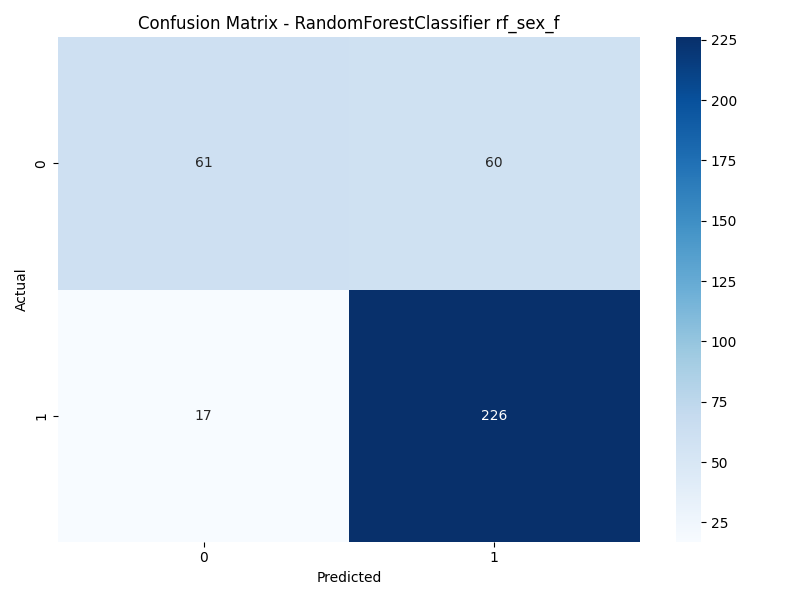
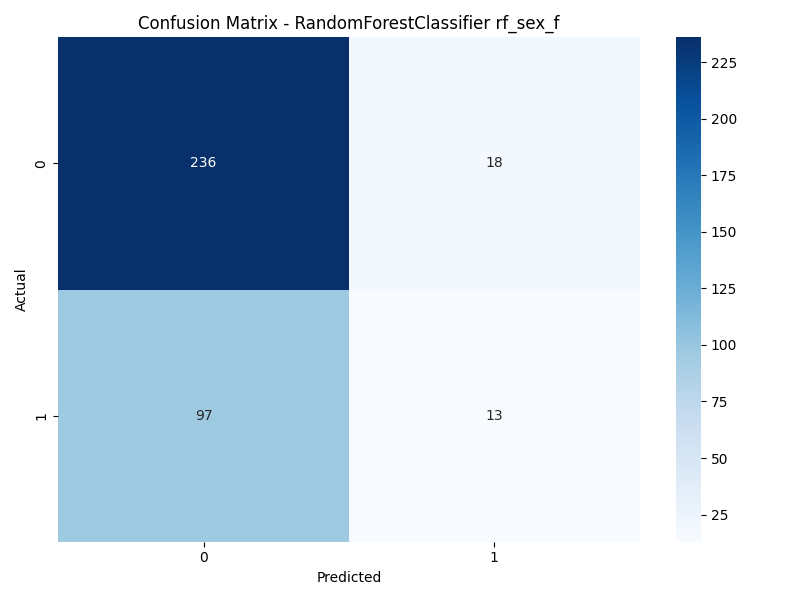
In run_classification.py fixed incorrect target index for sex_f in Random Forest model (was [0], updated to [1]). Also updated the corresponding confusion matrix PNG plot.

diff --git a/modules/run_classification.py b/modules/run_classification.py
@@ -58,7 +58,7 @@ def main():
     ))
 
     # Train and evaluate RandomForest for sex_f
-    rf_sex_f = ModelEvaluation(X=df_train, y=labels[targets[0]], tag='rf_sex_f')
+    rf_sex_f = ModelEvaluation(X=df_train, y=labels[targets[1]], tag='rf_sex_f')
     
     #sets the model 
     model_to_evaluate= RandomForestClassifier(n_estimators=100, criterion="gini", max_depth=10, random_state=42, bootstrap=True)
